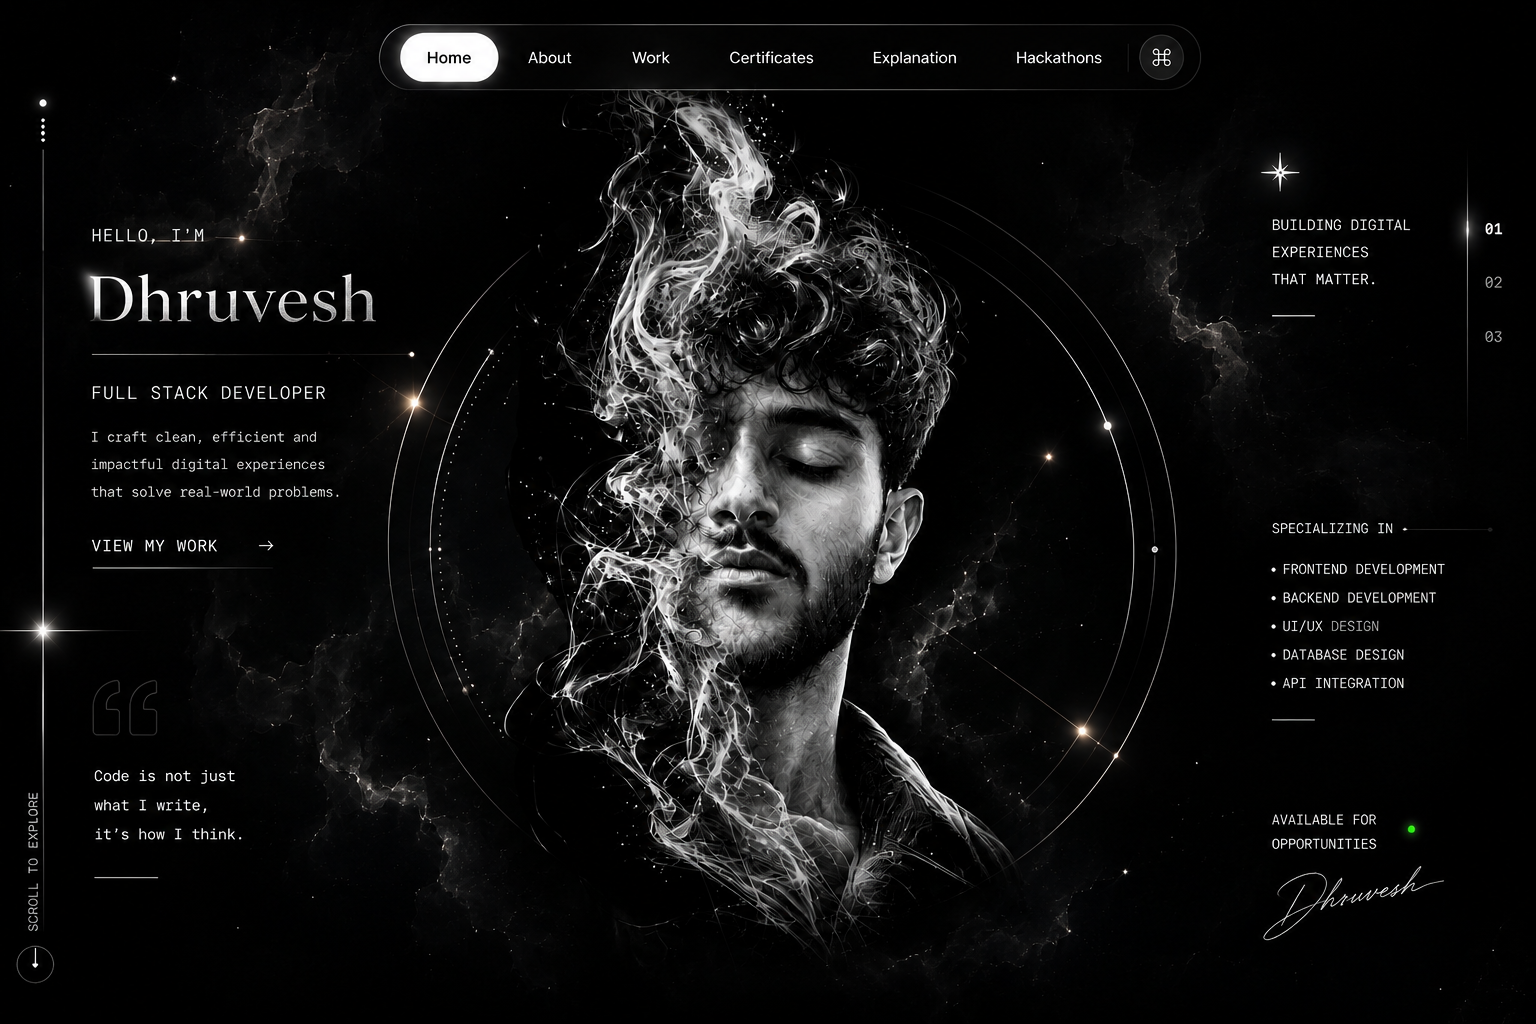
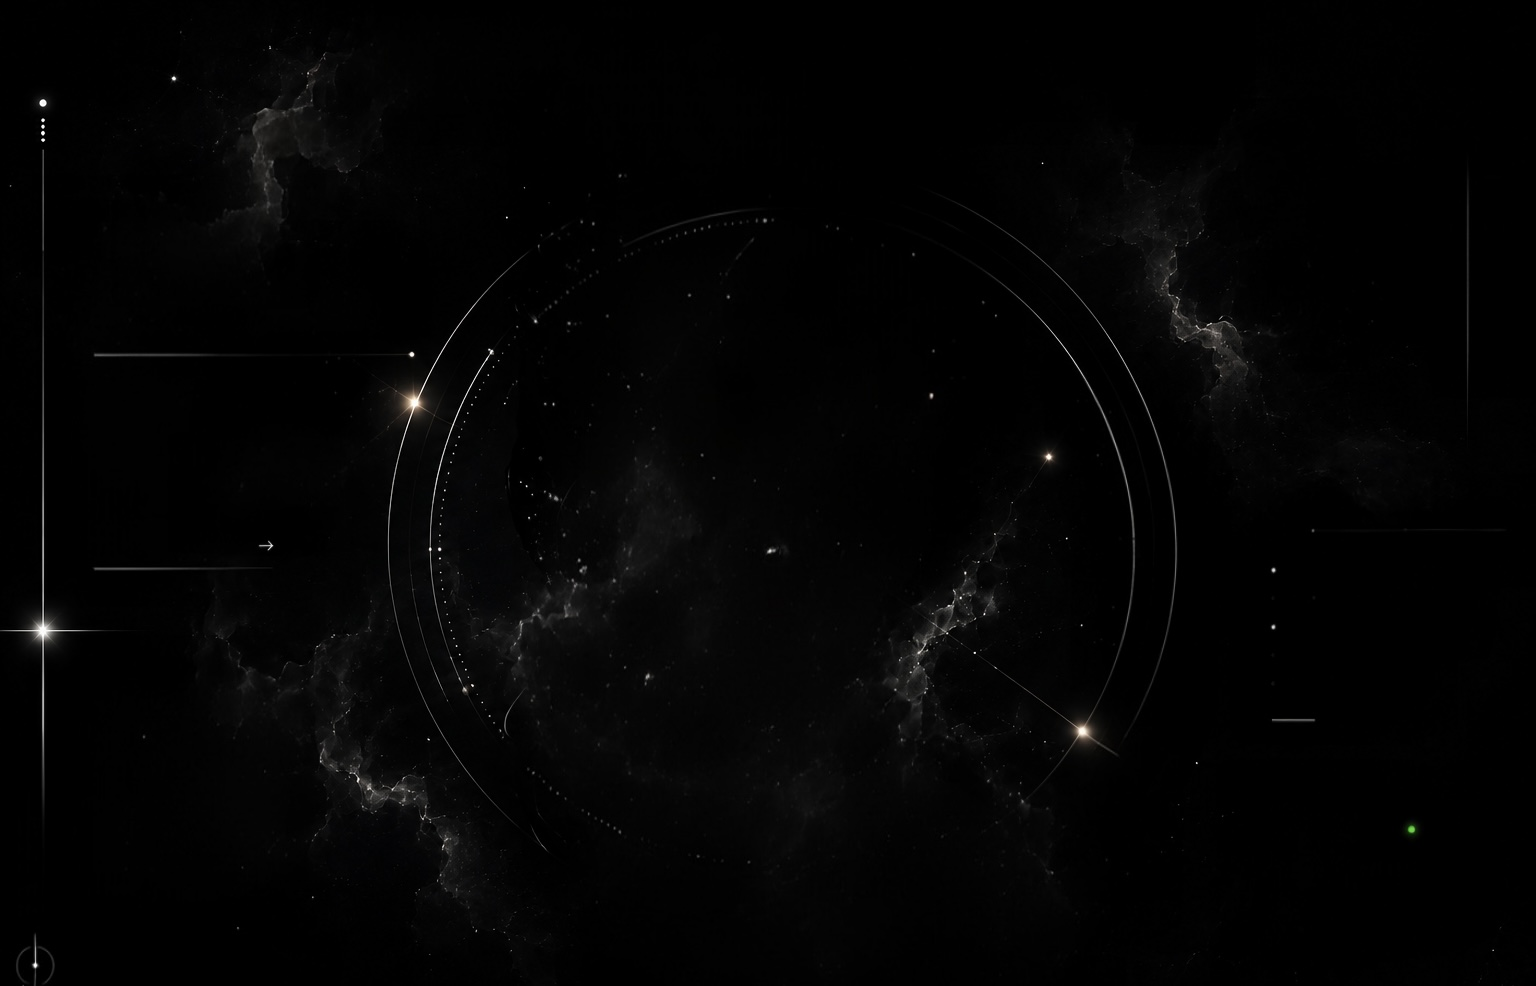
style: update hero section background image to hero_bg.png

diff --git a/src/app/globals.css b/src/app/globals.css
@@ -1867,7 +1867,7 @@ noscript {
     padding: 80px 5% 0;
     gap: 0;
     background: #030508;
-    background-image: url('/hero_bg2.png');
+    background-image: url('/hero_bg.png');
     background-size: cover;
     background-position: center 70%;
 }
